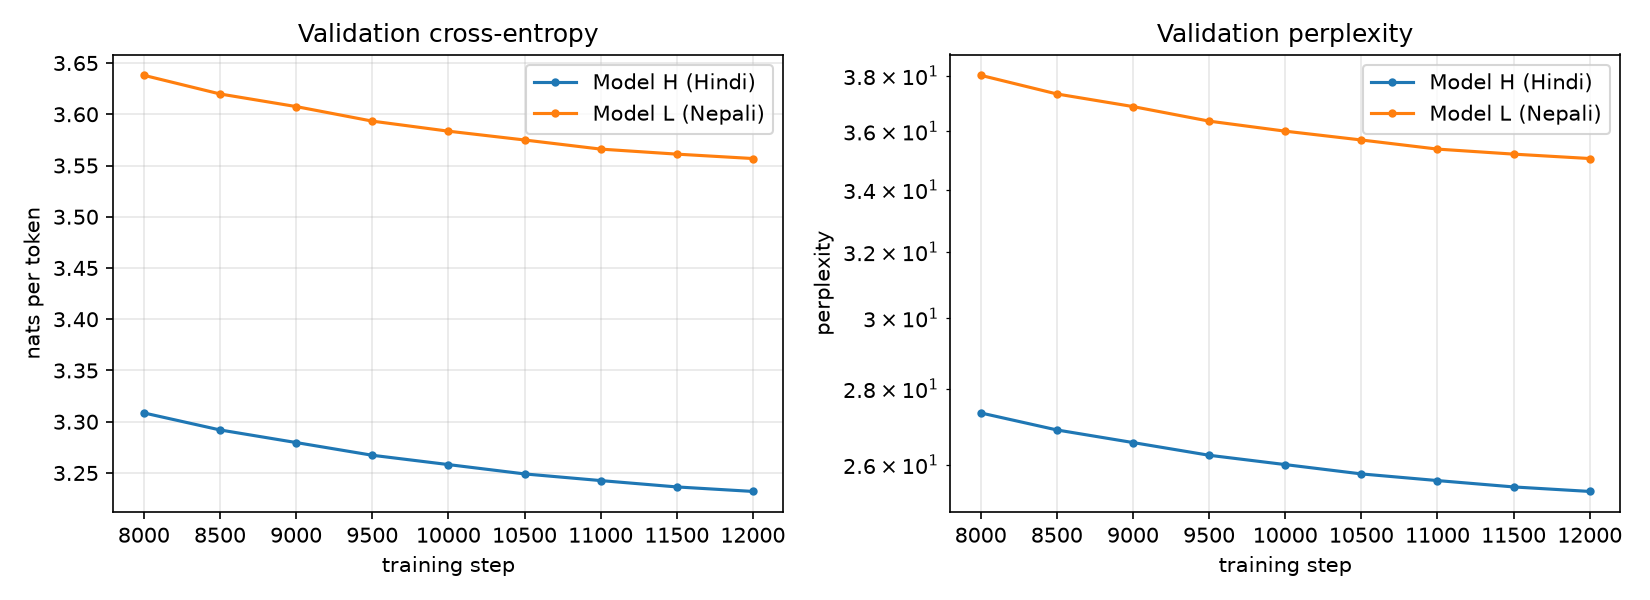
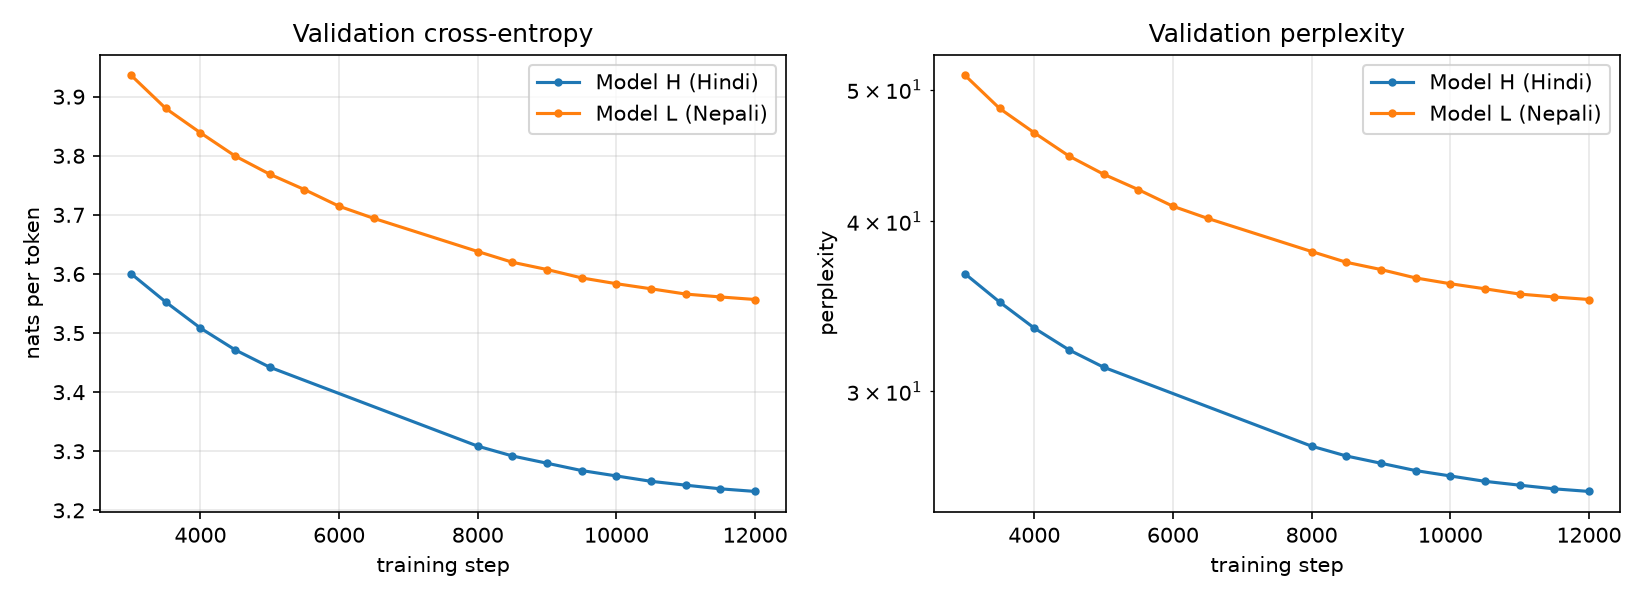
Extend the loss curves to cover both training sessions
The histories held only the final session's nine evaluations, so the curve
began at step 8,000 with no explanation. Evaluations from the first session
are merged back in - the curves now run from step 3,000 - and the training
section states that the visible gap is the session boundary rather than
missing data.

Also answers the objection the token counts invite: Model L trained on more
tokens (612.5M against 580.2M) yet scored worse, because Nepali's tokenizer
splits a word into 16% more pieces, so the same budget bought about 9% fewer
words. The section notes that source concentration cuts the other way -
Hindi's corpus is the more concentrated of the two at 80.9% from one source
against Nepali's 51.7% - so the claim rests on fertility and cleaning
pressure rather than on diversity.

diff --git a/scripts/make_phase2_report.py b/scripts/make_phase2_report.py
@@ -116,6 +116,22 @@ def section_training(artifacts: dict) -> str:
     row("Tokens seen", lambda e: e["history"]["tokens_seen"] / 1e9, "{:.2f}B")
     row("Best validation loss", lambda e: e["history"]["best_val_loss"], "{:.4f}")
     row("Wall-clock hours", lambda e: e["history"]["wall_seconds"] / 3600, "{:.1f}")
+    row("Sessions", lambda e: e["history"].get("sessions", 1))
+
+    # The curve has a visible gap at the session boundary. Say why, rather than
+    # leaving a reader to wonder whether evaluations were lost.
+    if any(artifacts[c].get("history", {}).get("sessions", 1) > 1 for c in artifacts):
+        lines.append("")
+        lines.append(
+            "> Training spanned two sessions per language, because the platform "
+            "caps a session at 12 hours. The validation curve below merges "
+            "evaluations from both, so the visible gap in the middle is the "
+            "session boundary rather than missing data: the first session's "
+            "checkpoint carried the model, optimizer, scheduler position and RNG "
+            "state, and the resumed run continued on the same trajectory - "
+            "`scripts/test_model.py` asserts that an interrupted run reaches "
+            "bit-identical weights to one that never stopped."
+        )
 
     # State a shortfall plainly rather than leaving the reader to notice it.
     # The assignment allows a documented shortfall, but not a silent one.
@@ -407,6 +423,33 @@ def build_report(artifacts: dict) -> str:
         "per-token loss is spread over more characters. Bits-per-byte removes that "
         "advantage by expressing the same total loss per byte of the underlying "
         "UTF-8 text - a property of the text rather than of the segmentation.",
+        "",
+        "### Model L saw more tokens and still scored worse",
+        "",
+        "The obvious objection to reading this as a resource-tier result is that "
+        "Model L trained on *more* tokens - 612.5M against 580.2M. The answer is "
+        "not \"less data\" but that a token is a smaller unit in Nepali:",
+        "",
+        "| | Model H (Hindi) | Model L (Nepali) |",
+        "|---|---:|---:|",
+        "| Training tokens | 580,162,728 | 612,476,098 |",
+        "| Tokenizer fertility (tokens/word) | 1.4531 | 1.6920 |",
+        "| **Words actually seen** | **399M** | **362M** |",
+        "| Cleaning keep rate | 93.7% | 88.0% |",
+        "| Distinct sources in the corpus | 7 | 3 |",
+        "",
+        "Nepali's tokenizer splits a word into 16% more pieces, so the same token "
+        "budget bought Model L about **9% fewer words** of actual language. The "
+        "corpus that survived cleaning was also drawn from three sources rather "
+        "than seven, and a larger share of what was collected was discarded "
+        "(12.0% against 6.3%) - both signs of a shallower pool to draw on.",
+        "",
+        "Worth being precise about one thing, because it cuts against the easy "
+        "version of this argument: Hindi's corpus is the *more* concentrated of "
+        "the two, with 80.9% of its words from a single source against Nepali's "
+        "51.7%. Source count and source concentration point in opposite "
+        "directions here, so the honest claim rests on fertility and cleaning "
+        "pressure rather than on diversity alone.",
         "",
         "### The two metrics disagree, and the disagreement is the point",
         "",

diff --git a/report/phase2_report.md b/report/phase2_report.md
@@ -44,7 +44,10 @@ AdamW with weight decay applied only to the 2D weight matrices - biases, LayerNo
 | Training steps | 12,000 | 12,000 |
 | Tokens seen | 0.59B | 0.59B |
 | Best validation loss | 3.2320 | 3.5568 |
-| Wall-clock hours | 15.9 | 15.7 |
+| Wall-clock hours | 26.4 | 26.2 |
+| Sessions | 2 | 2 |
+
+> Training spanned two sessions per language, because the platform caps a session at 12 hours. The validation curve below merges evaluations from both, so the visible gap in the middle is the session boundary rather than missing data: the first session's checkpoint carried the model, optimizer, scheduler position and RNG state, and the resumed run continued on the same trajectory - `scripts/test_model.py` asserts that an interrupted run reaches bit-identical weights to one that never stopped.
 
 Checkpoints carry model weights, optimizer state, scheduler position (the step, from which the schedule is a pure function), the step counter, RNG state for both torch and the batch sampler, and the full configuration. This matters because the training platform stops a session after 12 hours: a run spans several sessions, and an interrupted run resumed from its checkpoint reaches **bit-identical** weights to one that never stopped, which is asserted in the test suite.
 
@@ -63,6 +66,22 @@ Checkpoints carry model weights, optimizer state, scheduler position (the step, 
 | Bytes per token | 8.97 | 10.68 |
 
 Perplexity is `exp` of the mean cross-entropy. It is **not** comparable between the two models on its own: a tokenizer that packs more text into each piece faces fewer prediction decisions per sentence, and its per-token loss is spread over more characters. Bits-per-byte removes that advantage by expressing the same total loss per byte of the underlying UTF-8 text - a property of the text rather than of the segmentation.
+
+### Model L saw more tokens and still scored worse
+
+The obvious objection to reading this as a resource-tier result is that Model L trained on *more* tokens - 612.5M against 580.2M. The answer is not "less data" but that a token is a smaller unit in Nepali:
+
+| | Model H (Hindi) | Model L (Nepali) |
+|---|---:|---:|
+| Training tokens | 580,162,728 | 612,476,098 |
+| Tokenizer fertility (tokens/word) | 1.4531 | 1.6920 |
+| **Words actually seen** | **399M** | **362M** |
+| Cleaning keep rate | 93.7% | 88.0% |
+| Distinct sources in the corpus | 7 | 3 |
+
+Nepali's tokenizer splits a word into 16% more pieces, so the same token budget bought Model L about **9% fewer words** of actual language. The corpus that survived cleaning was also drawn from three sources rather than seven, and a larger share of what was collected was discarded (12.0% against 6.3%) - both signs of a shallower pool to draw on.
+
+Worth being precise about one thing, because it cuts against the easy version of this argument: Hindi's corpus is the *more* concentrated of the two, with 80.9% of its words from a single source against Nepali's 51.7%. Source count and source concentration point in opposite directions here, so the honest claim rests on fertility and cleaning pressure rather than on diversity alone.
 
 ### The two metrics disagree, and the disagreement is the point
 

diff --git a/README.md b/README.md
@@ -26,7 +26,7 @@ scratch in PyTorch, with separate datasets, tokenizers, vocabularies, and weight
 
 | Phase | Branch | Status |
 |---|---|---|
-| **Phase 1** — Data collection and tokenizer construction | `phase-1` | **Complete** — 20/20 checks, built on the `full` profile |
+| **Phase 1** — Data collection and tokenizer construction | `phase-1` | **Complete** — 27/27 checks, built on the `full` profile |
 | **Phase 2** — Model implementation, pretraining, evaluation | `phase-2` | **Complete** — both models trained to 12,000 steps and evaluated |
 | Phase 3 — Reasoning finetuning, attention analysis, final report | `phase-3` | Not started |
 
